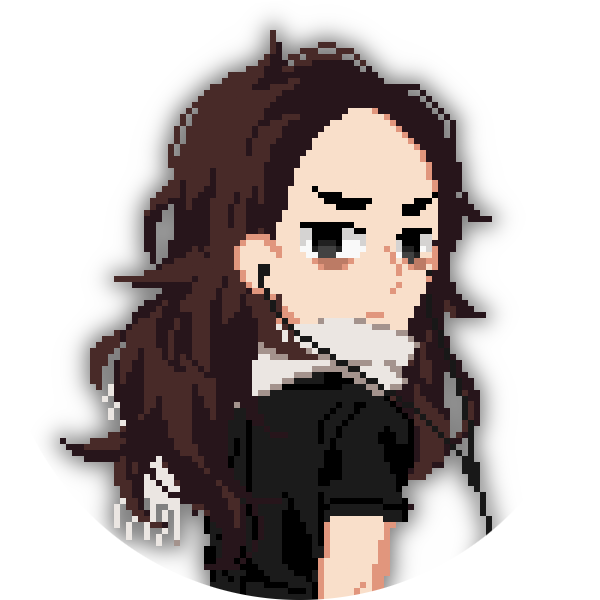
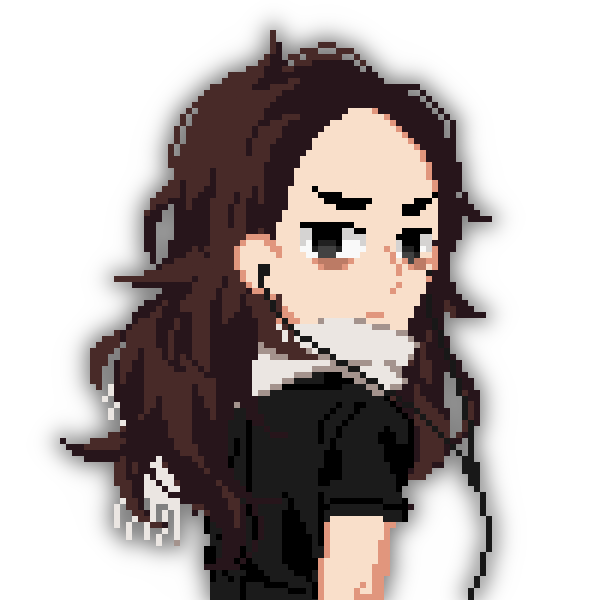
+ Added styling to the about me section on the main page. * Updated pfp to use the square version instead of the circle one. + Added footer.

diff --git a/src/index.html b/src/index.html
@@ -10,25 +10,29 @@
          }
       </style>
       <link rel="stylesheet" href="style.css">
+      <link rel="stylesheet" href="index.css">
    </head>
 
    <body>
       <main>
-         <section>
+         <section id="about-me">
             <h2>About me</h2>
-            <img src="pfp.png" alt="Profile picture for Nightowl286.">
+            <img class="profile-image" src="pfp.png" alt="Profile picture for Nightowl286" title="Profile picture for Nightowl286">
             <p>Hello, I'm Nightowl, <i>(god I hate writing about me sections, always feels weird to introduce myself).</i></p>
-            <p>
-               I'm a programmer, and I quite like programming, although there were times in my life when I hated it.
-               Overall I think I like creating things <i>(especially when it's something I think is cool)</i>,
-               and exploring new and different ways to do things <i>(which tends to get some people worked up)</i>.
-            </p>
-            <p>
-               I suffer from a sleep disorder/disability known as
-               <a href="https://en.wikipedia.org/wiki/Non-24-hour_sleep%E2%80%93wake_disorder">N24</a>
-               <i>(the symptoms of which make my username quite ironic)</i>, it makes life both extremely
-               painful but also interesting, peaceful and beautiful <i>(so many sunsets and sunrises)</i>.
-            </p>
+            <hr>
+            <div>
+               <p>
+                  I'm a programmer, and I quite like programming, although there were times in my life when I hated it.
+                  Overall I think I like creating things <i>(especially when it's something I think is cool)</i>,
+                  and exploring new and different ways to do things <i>(which tends to get some people worked up)</i>.
+               </p>
+               <p>
+                  I suffer from a sleep disorder/disability known as
+                  <a href="https://en.wikipedia.org/wiki/Non-24-hour_sleep%E2%80%93wake_disorder" title="Non-24 hour sleep wake disorder">N24</a>
+                  <i>(the symptoms of which make my username quite ironic)</i>, it makes life both extremely
+                  painful but also interesting, peaceful and beautiful <i>(so many sunsets and sunrises)</i>.
+               </p>
+            </div>
          </section>
 
          <section>
@@ -64,5 +68,8 @@
             </article>
          </section>
       </main>
+      <footer>
+         <p>Disclaimer: I may be a programmer, but I am most certainly not a web developer.</p>
+      </footer>
    </body>
 </html>

diff --git a/src/index.css b/src/index.css
@@ -1,0 +1,72 @@
+#about-me {
+   border-radius: 30px;
+   background-color: #202020;
+   padding: 5px 15px;
+   margin: 15px;
+   filter: drop-shadow(0px 0px 5px black);
+
+   display: grid;
+   grid-template-columns: auto 1fr;
+   grid-template-rows: repeat(auto, 3) 1fr;
+}
+
+#about-me > .profile-image {
+   grid-row: 1 / 3;
+   grid-column: 1;
+   margin-top: auto;
+   margin-bottom: 0;
+}
+
+#about-me > h2 {
+   grid-row: 1;
+   grid-column: 2;
+   margin-top: auto;
+   margin-bottom: 0;
+   text-decoration: underline;
+}
+
+#about-me > hr {
+   grid-row: 3;
+   grid-column: 1 / 3;
+   width: 100%;
+   margin-top: 0;
+}
+
+#about-me > p {
+   grid-row: 2;
+   grid-column: 2;
+   margin: 3px 3px 0 0;
+}
+
+#about-me > div {
+   grid-row: 4;
+   grid-column: 1 / 3;
+}
+
+#about-me > div > p {
+   margin: 0px 0px 10px 0px;
+   text-align: center;
+}
+
+#about-me i {
+   color: #646464;
+}
+
+#about-me i:hover {
+   color: #d7d7d7;
+}
+
+.profile-image {
+   width: 100px;
+   height: 100px;
+}
+
+footer > p {
+   text-align: center;
+   font-style: italic;
+   color: #646464;
+}
+
+footer > p:hover {
+   color: #d7d7d7;
+}

diff --git a/src/style.css b/src/style.css
@@ -5,7 +5,7 @@ html {
 }
 
 body {
-   max-width: 75ch;
+   max-width: 70ch;
    margin: auto;
 }
 
